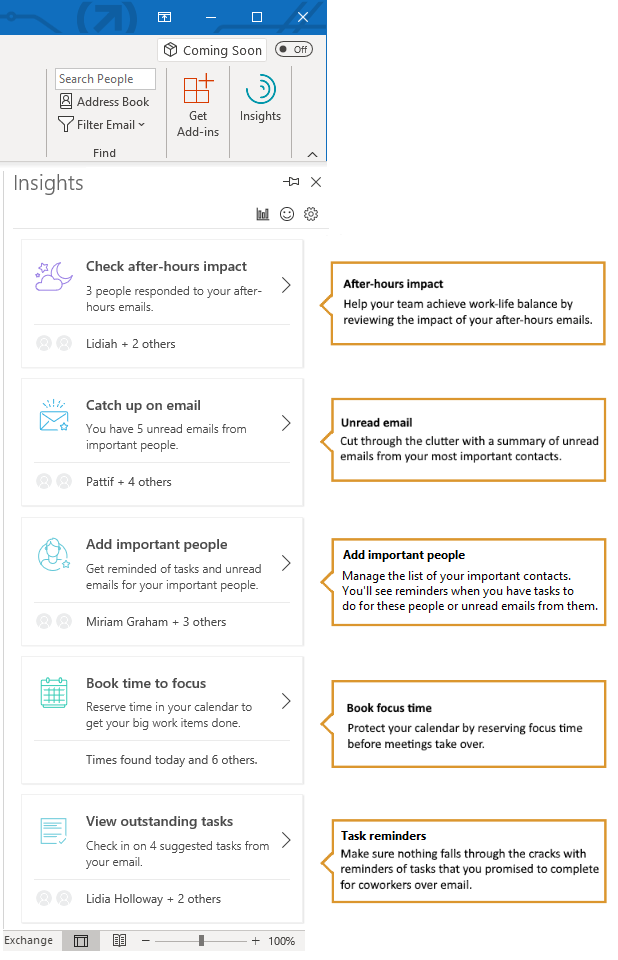
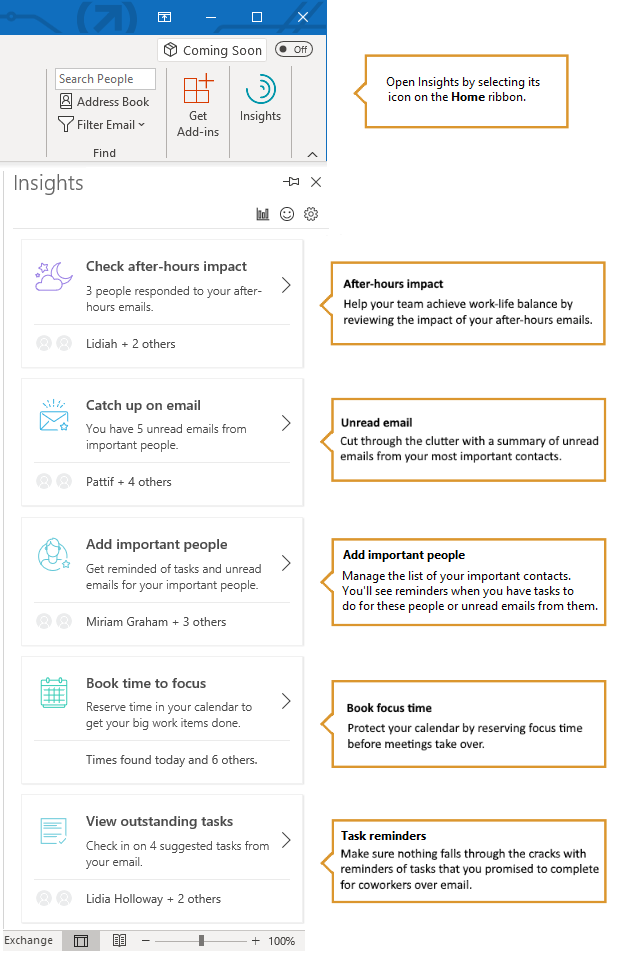
changes per MA and Noelle

diff --git a/WorkplaceAnalytics/insights-in-outlook.md b/WorkplaceAnalytics/insights-in-outlook.md
@@ -31,7 +31,7 @@ If your answer to any of these questions is _yes_, the Outlook add-in provides a
 
 ## What you might see
 
-![Bullet point](images/mya/overview/bullet-point-indented.png)To open the Insights Outlook add-in, select the **Insights** (swirl) icon on the Outlook Home ribbon. If you are using the Outlook Web App, first open an email message and then select **Insights** in the top-right corner of your email message. After you launch the add-in, the Insights panel opens to the right in Outlook.
+![Bullet point](images/mya/overview/bullet-point-indented.png)To open the Insights Outlook add-in, select the **Insights** icon on the Outlook **Home** ribbon. If you are using  Outlook on the web, open an email message, select the ellipsis (...) in the top-right corner of your email message, and then select **Insights**. 
 
 ![Insights panel](images/mya/overview/insights-cards-9.png)
 
